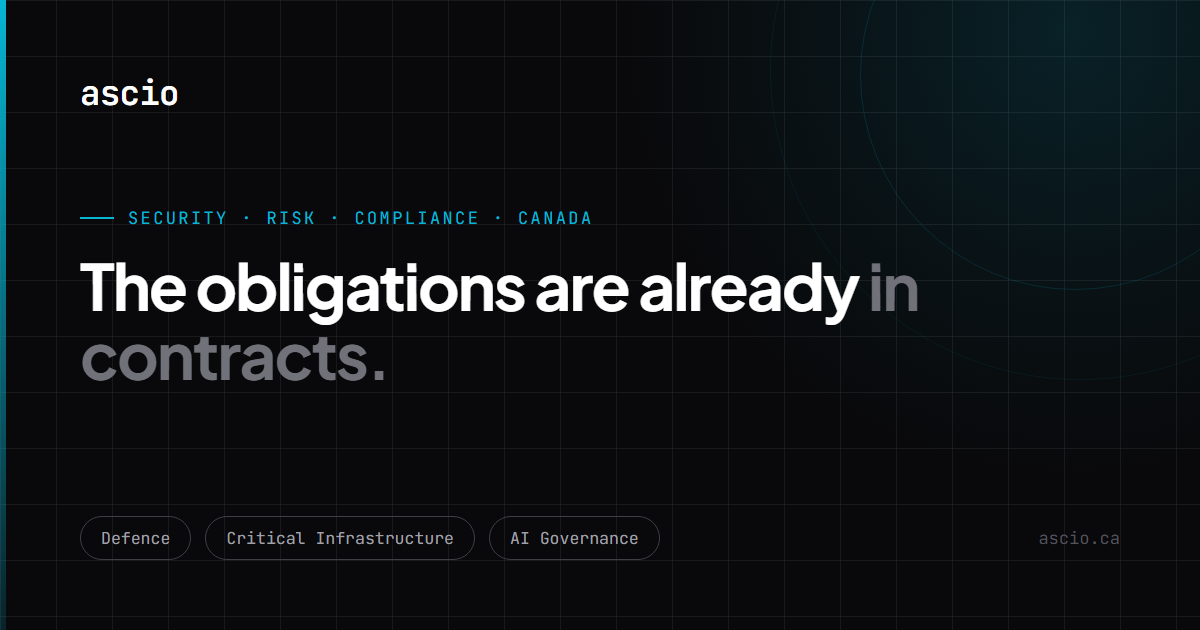
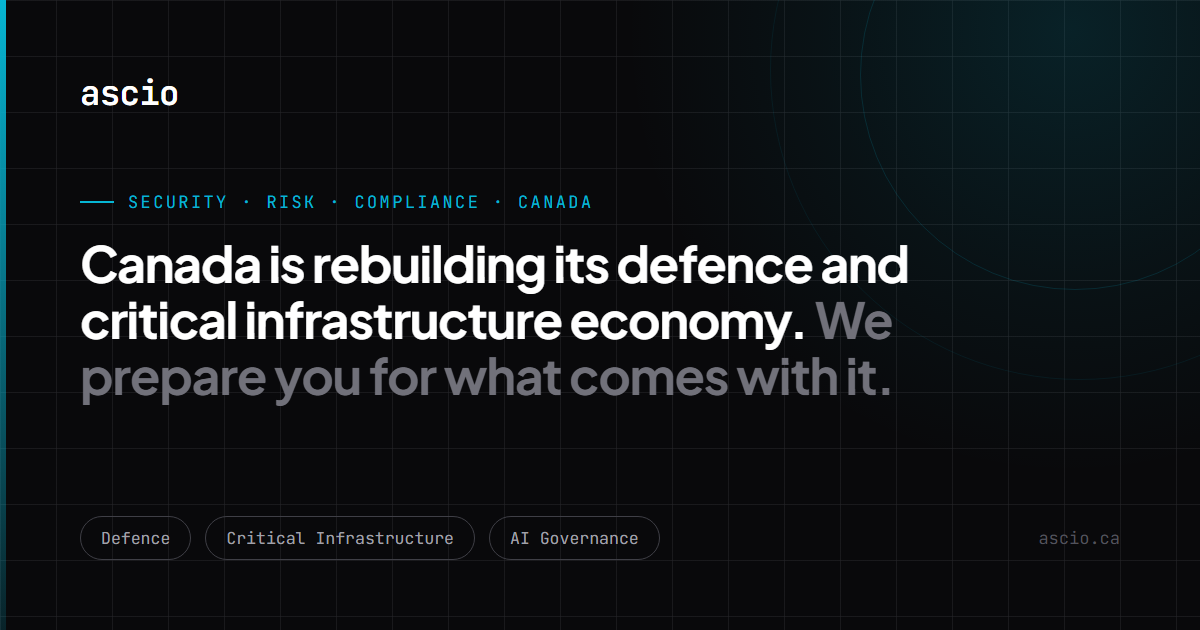
Soften hero second line and update OG image to match

diff --git a/index.html b/index.html
@@ -618,7 +618,7 @@
                 <div class="container">
                     <div class="hero-content">
                         <div class="hero-tag">SECURITY &middot; RISK &middot; COMPLIANCE &middot; CANADA</div>
-                        <h1>Canada is rebuilding its defence and critical infrastructure economy. <span>The obligations are already in contracts.</span></h1>
+                        <h1>Canada is rebuilding its defence and critical infrastructure economy. <span>New security and compliance obligations come with it.</span></h1>
                         <p class="hero-lede">We prepare organizations for the security and compliance requirements now attached to Canadian defence work, critical infrastructure operations, and AI adoption: CPCSC, ITSP.10.171, the Critical Cyber Systems Protection Act, and ISO/IEC 42001, with evidence an assessor will accept.</p>
                         <div class="hero-proof">
                             <div class="hero-proof-line">CPCSC Level 1 entered select defence contracts summer 2026</div>
